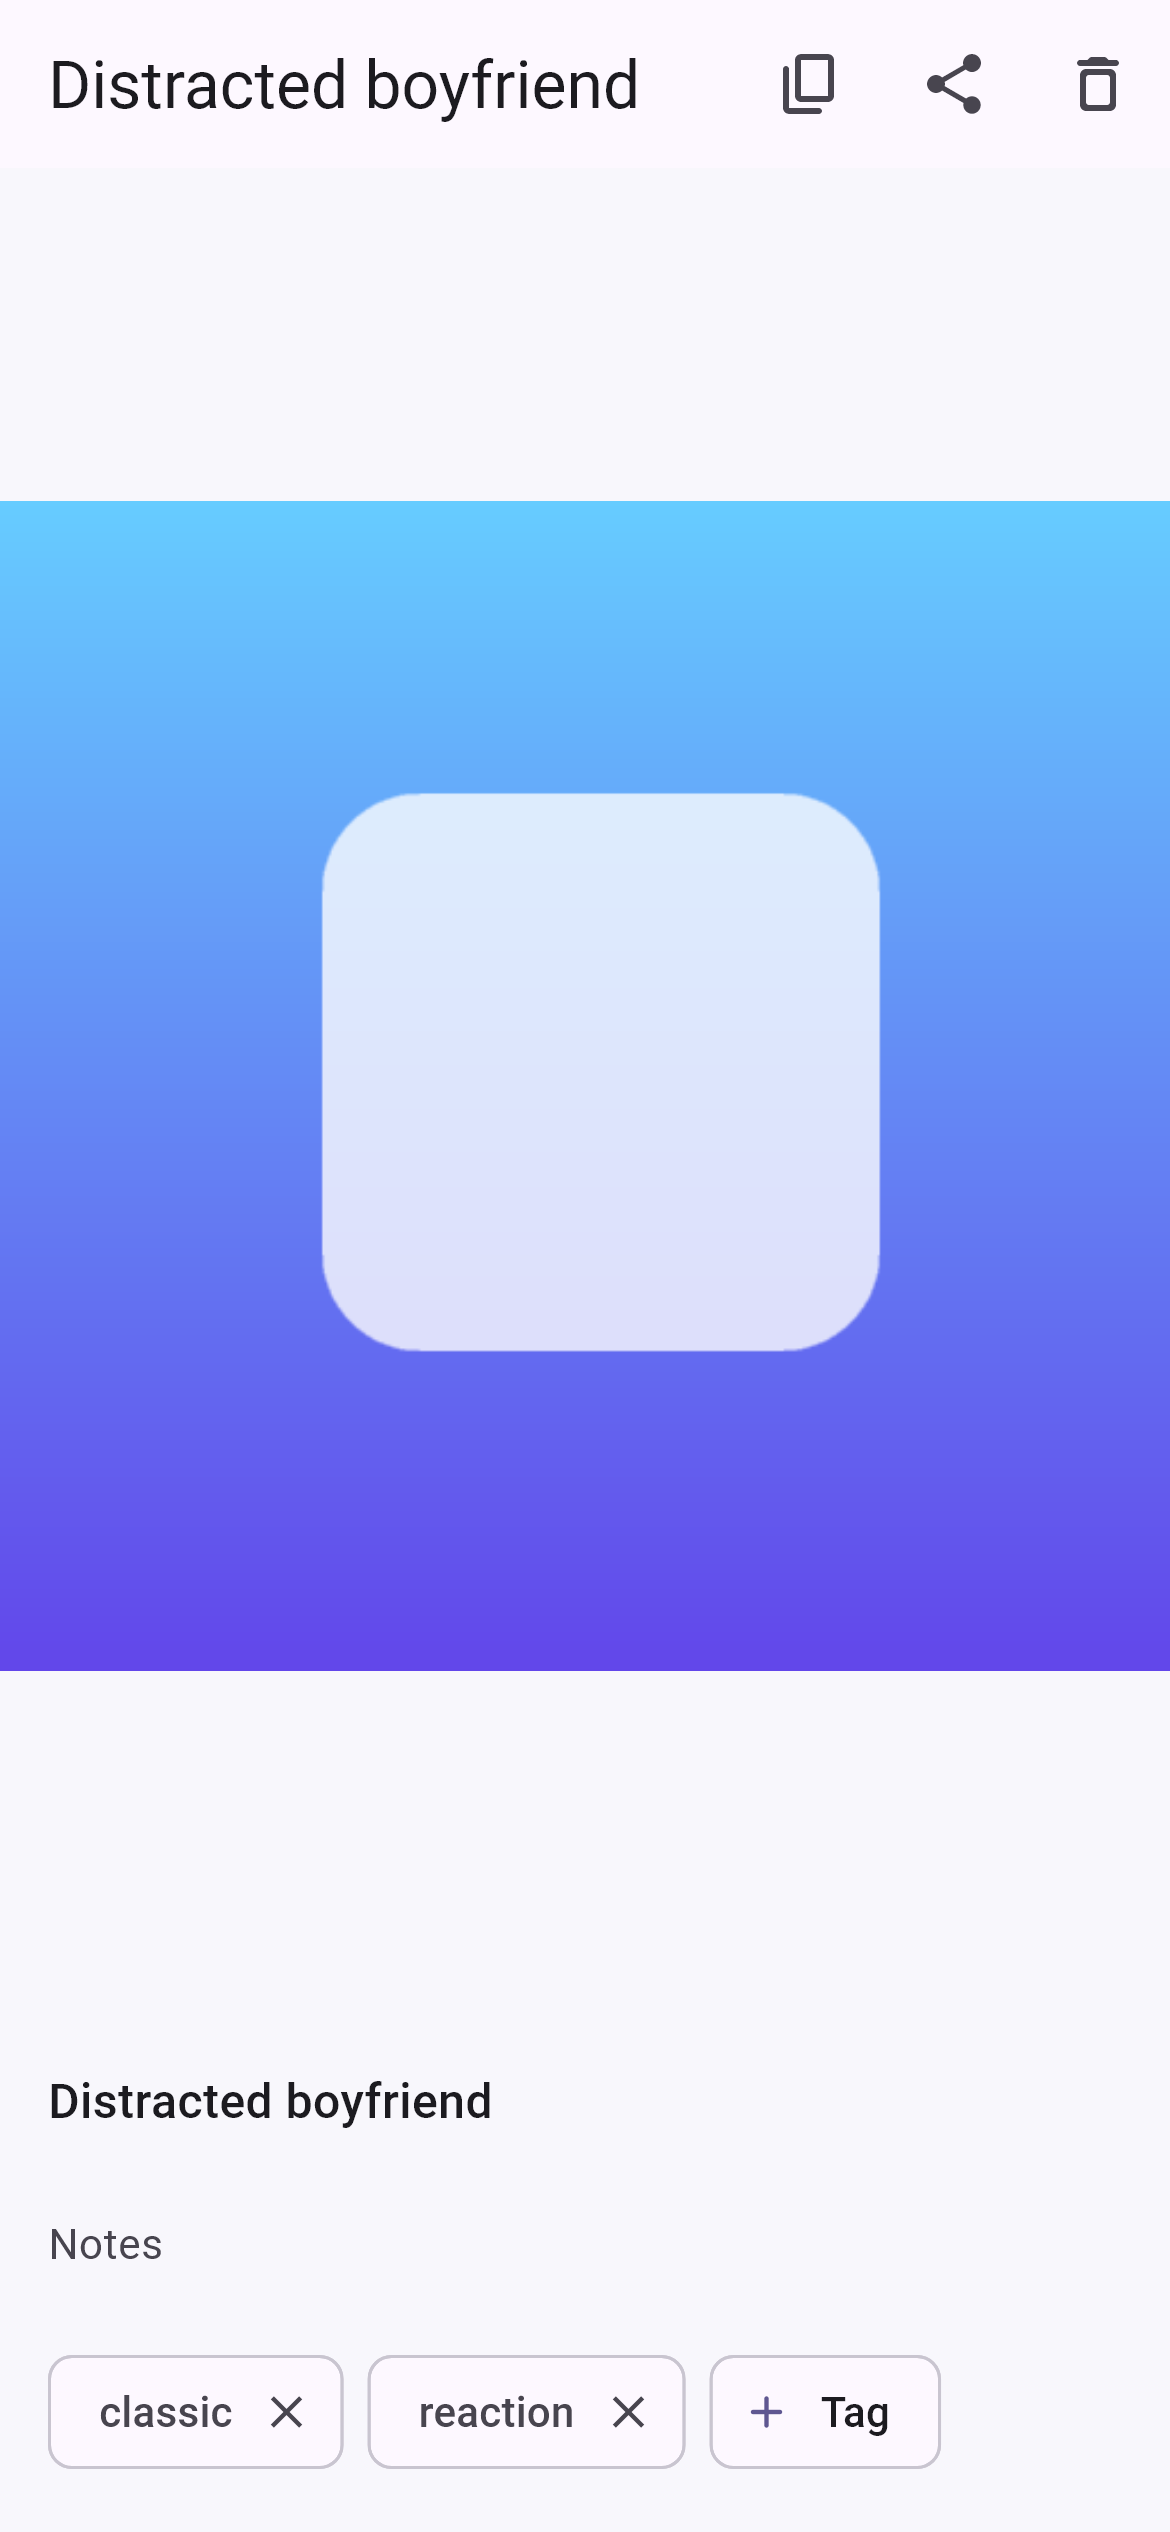
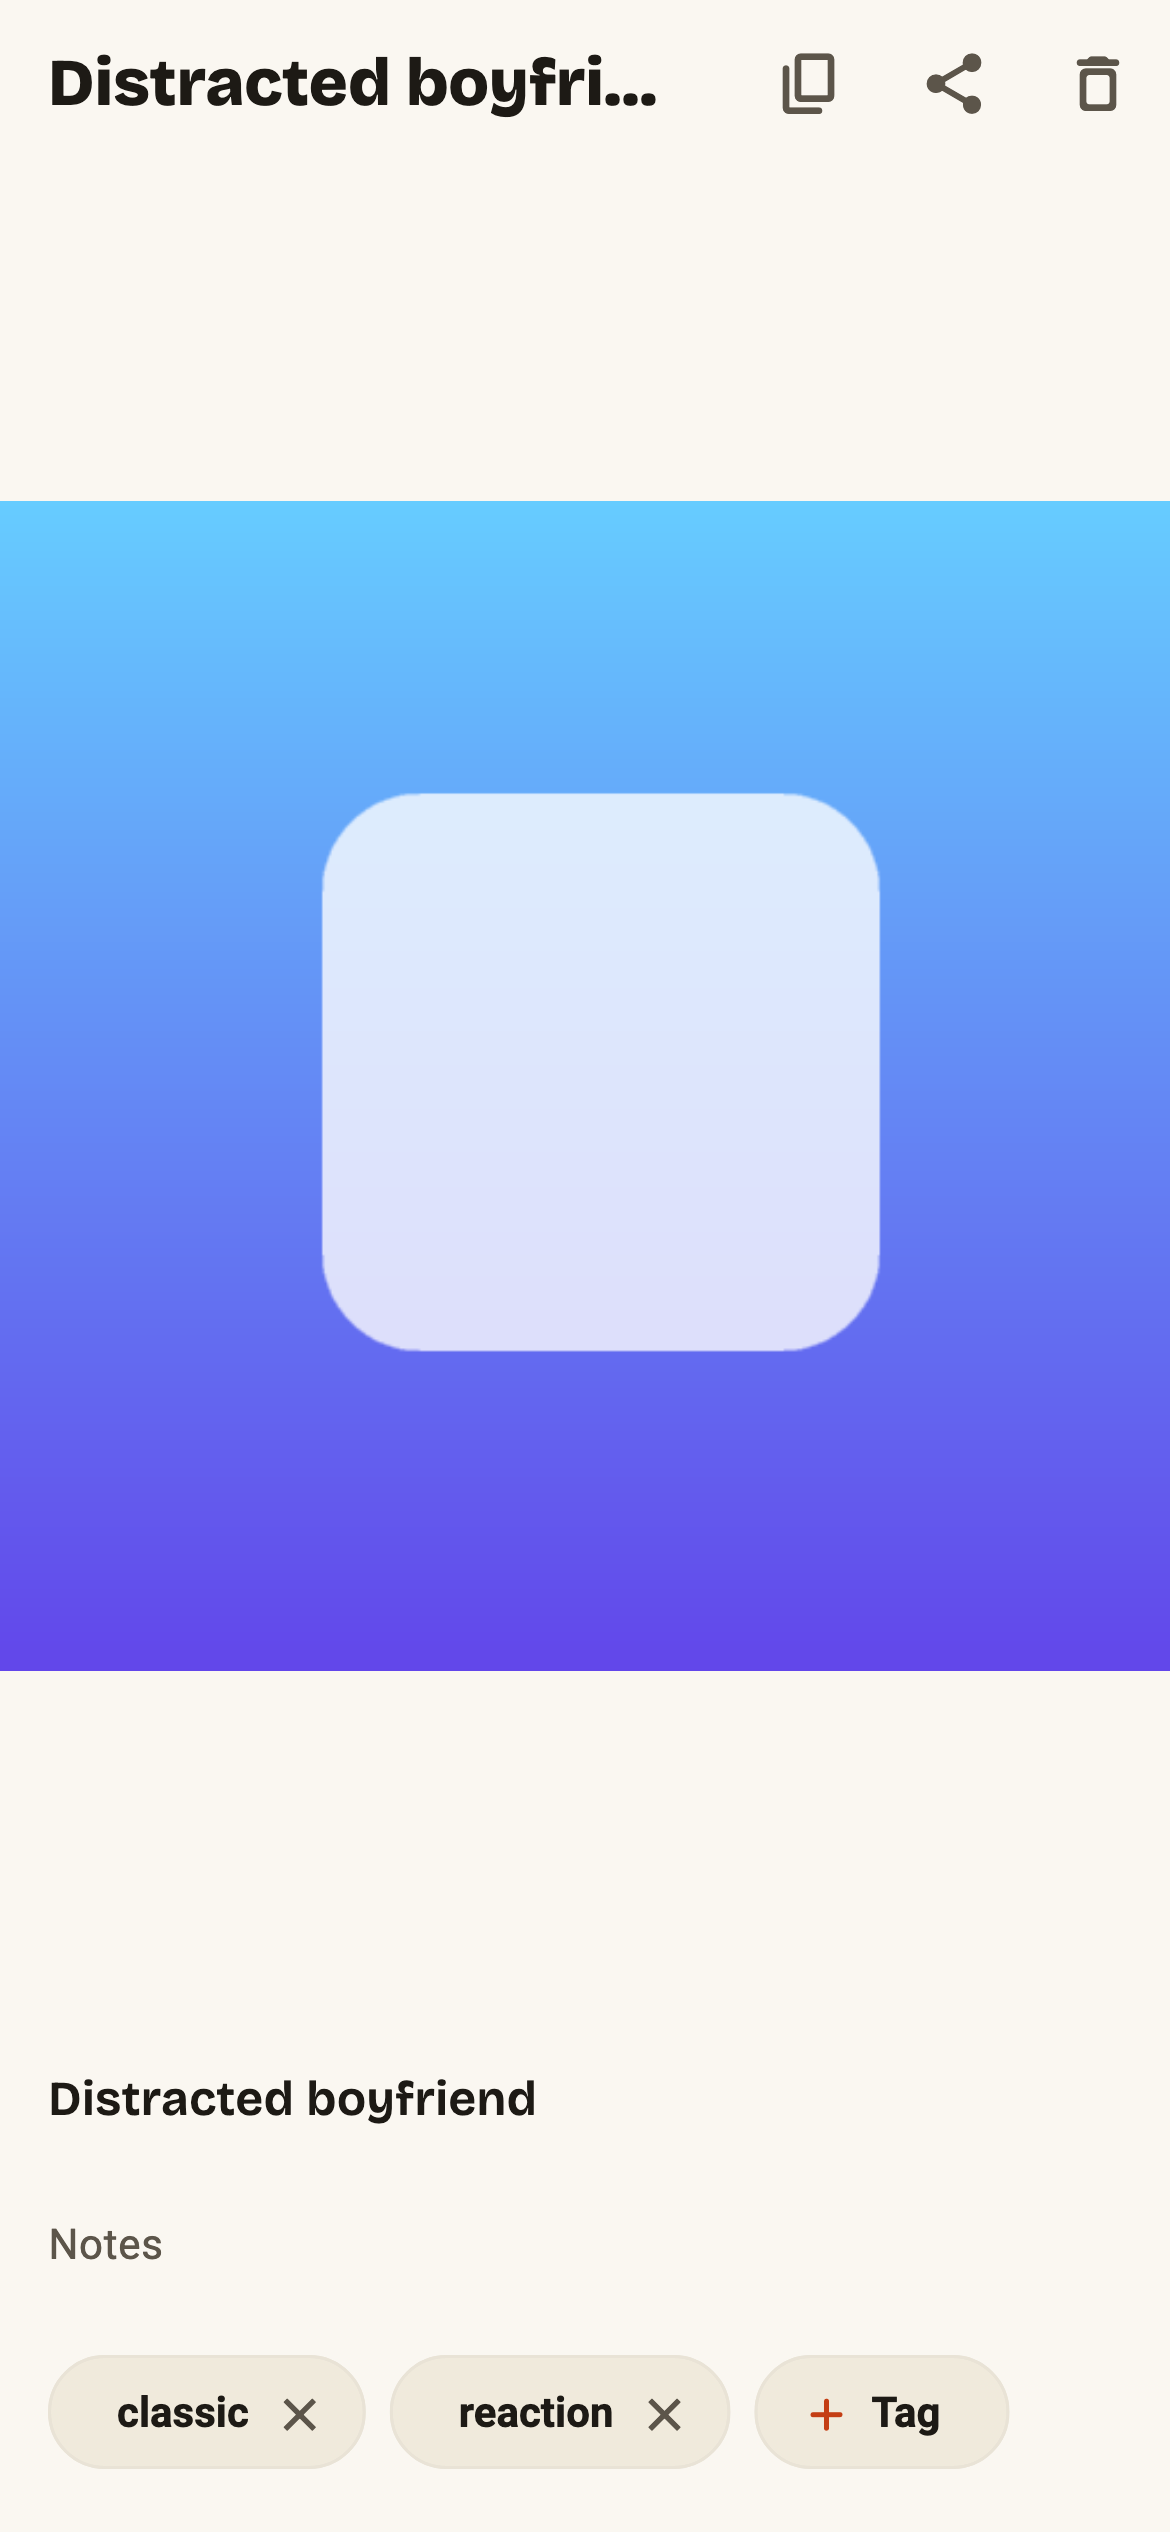
docs: refresh the badge and screenshots for the new look
Recolours the platforms badge and regenerates the three README
screenshots, which now show the dock, the masonry grid, the paper
background and the warm dark theme:

    flutter test tool/generate_screenshots.dart

The tool loads the bundled display font explicitly rather than trusting
the font manifest to reach a test binding, so the captures show real
titles instead of a fallback face.

Changed region(s): [[0.0308, 0.9048, 0.8615, 0.9984], [0.0308, 0.0, 0.5538, 0.0624], [0.0615, 0.8112, 0.4615, 0.8424]]

diff --git a/README.md b/README.md
@@ -12,7 +12,7 @@ find the right one in seconds and drop it into any conversation.
 [![CI](https://github.com/zkwokleung/meme-library/actions/workflows/ci.yml/badge.svg)](https://github.com/zkwokleung/meme-library/actions/workflows/ci.yml)
 [![Release](https://img.shields.io/github/v/release/zkwokleung/meme-library?include_prereleases)](https://github.com/zkwokleung/meme-library/releases)
 ![Flutter](https://img.shields.io/badge/Flutter-3.41-45D1FD?logo=flutter)
-![Platforms](https://img.shields.io/badge/platforms-iOS%2018%2B%20·%20Android%2015%2B-6246EA)
+![Platforms](https://img.shields.io/badge/platforms-iOS%2018%2B%20·%20Android%2015%2B-E4572E)
 
 <br/>
 
